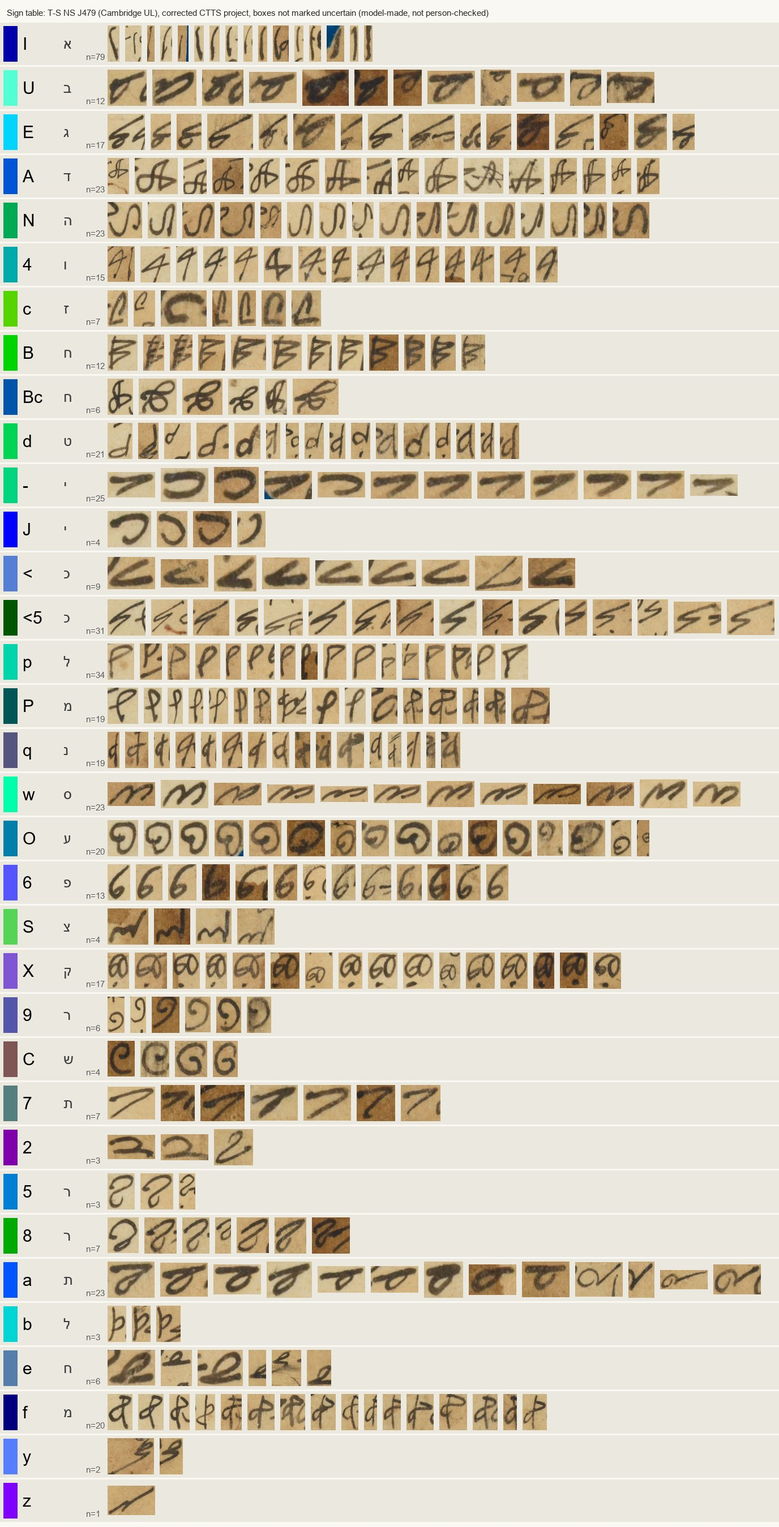
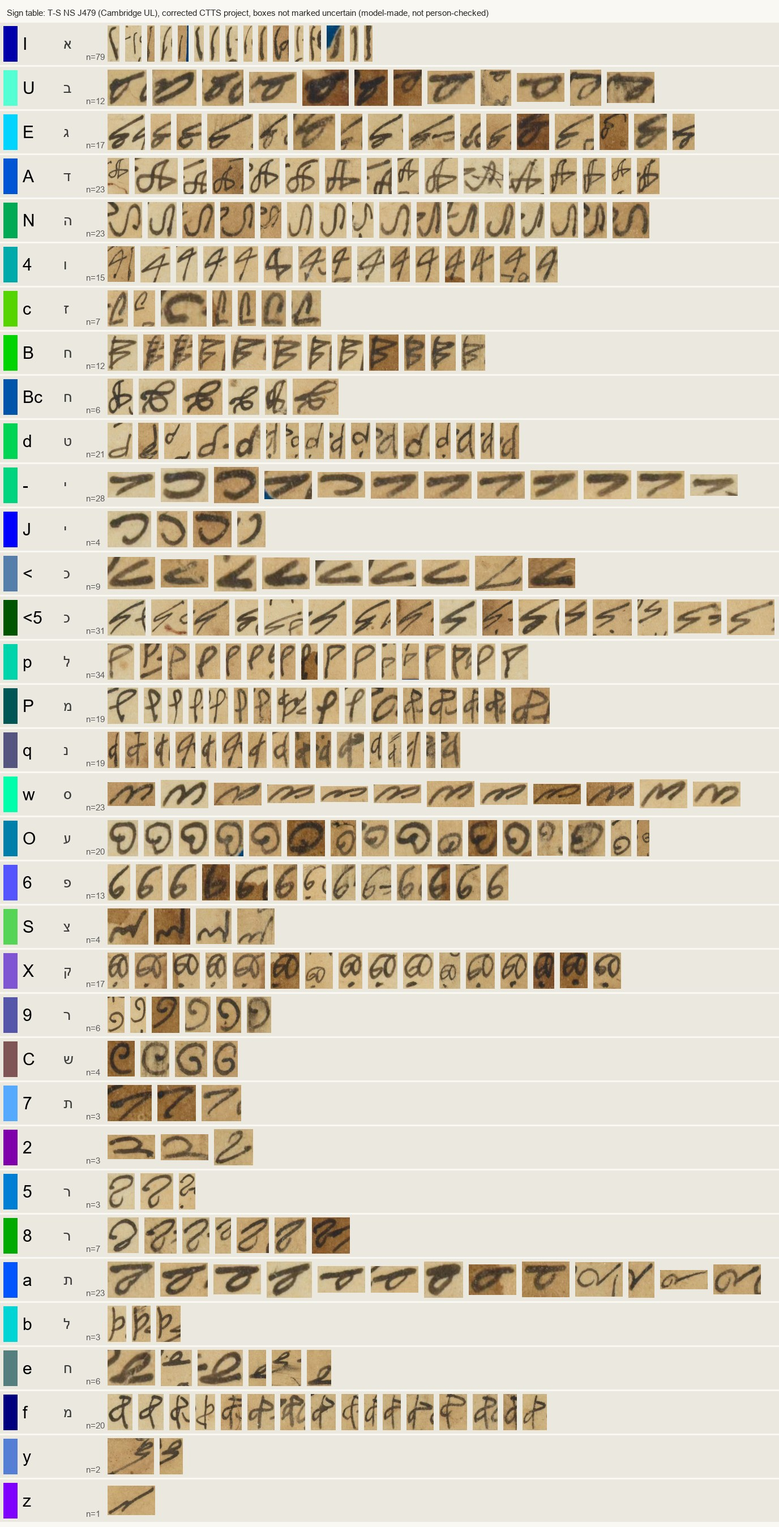
Site: J479 sign table, per-side fix of the 7 / dash shapes after a label test on known rows
A test of nine rows with an established reading (blind first pass 0.52, first correction 0.86, rounds 6-7 0.82) showed
round 6's size rule had made three yods of the Burda lines 7. The long > stroke is the yod on side 2; on side 1 it is
both the bet (S1L02, S1L04) and the yod of the margin signatures, so the side-1 7 boxes stay uncertain. Three yods back
to the dash, one resh loop to 8, two side-1 7s uncertain: agreement 0.841. Project 699 boxes in 82 types (180
uncertain); table 517 boxes in 34 rows. Decoding the open rows from the corrected labels gave no new word.

diff --git a/docs/tsnsj479.html b/docs/tsnsj479.html
@@ -88,8 +88,8 @@
 <p>As photographed, the lines run left to right; the page is upside down in the photographs, and turned round they read right to left in the ordinary way (Elbaum's copy shows them so). The alphabet rows, read in Hebrew order, give the value of every sign. Sign frequencies agree: the commonest are the signs for א, י, ל and מ, as in Judaeo-Arabic, and the commonest short words come out as פי ("in"), יא ("O") and מן ("from").</p>
 <p>The scribe was not fully consistent. Across his alphabets one sign serves for ת, ש and ב, another for ת and צ, and צ has five forms; ר is written three ways in the alphabets and a fourth in the text. In the text of side 1 the 7-shaped sign stands for ב. A dot under ט marks ض or ظ, under ד marks ذ, and under כ marks خ: the Arabic sounds the Hebrew alphabet lacks. Two rows of side 1 were written with the page turned: S1L03, a fragment of the alphabet from ב to ל, and the text line S1L07. Three items at the top of side 2 are upside down as well.</p>
 
-<figure data-credit="Cambridge University Library, T-S NS J479, both sides, via Cambridge Digital Library IIIF; table drawn here in the style of the CTTS symbol-type view"><img src="tsnsj479_ctts_key.jpg" width="1376" height="2698" decoding="async" loading="lazy" alt="Sign table: one coloured row per sign type with the Hebrew letter it carries and cut-outs of that sign from the page, from I (alef) to the variants"><figcaption>The sign table: each type with signs cut from the page, from the corrected CTTS project (518 of its 699 boxes; the 179 marked uncertain are left out). B and the angle each appear in two shapes (round and pointy B; a plain angle and a 5-shape), and the dash ranges from a small flat dash with a short hook to a rounded hook (the long <i>&gt;</i>-shaped strokes are the 7, the 22nd sign). Made by models. A person went over the table twice on 21 November 2026: 24 rows were confirmed (I, U, E, A, 4, c, B, Bc, d, <, p, q, 6, S, X, 9, C, 7, 5, b, e, f, y, z), 46 cut-outs were circled as wrong and have been taken out, and h, m, n and o were questioned and left out; the dash, <5, w and 2 are not yet confirmed. <span class="credit">Image: Cambridge University Library, T-S NS J479, both sides, via Cambridge Digital Library IIIF; table drawn here in the style of the CTTS symbol-type view.</span></figcaption></figure>
-<p>The boxes were written out as a CTTS project (CrypTool Transcriber and Solver): a blind first pass by two models, compared with the transcription, then every disagreement and missing sign decided on enlarged crops, a second round after a line-by-line review of the table, and a third on the owner's reading of it (step 16 of the notes). The project files are corrected but have not been opened in CTTS, and only part of the table has been checked by a person, so it is not yet a gold standard.</p>
+<figure data-credit="Cambridge University Library, T-S NS J479, both sides, via Cambridge Digital Library IIIF; table drawn here in the style of the CTTS symbol-type view"><img src="tsnsj479_ctts_key.jpg" width="1376" height="2698" decoding="async" loading="lazy" alt="Sign table: one coloured row per sign type with the Hebrew letter it carries and cut-outs of that sign from the page, from I (alef) to the variants"><figcaption>The sign table: each type with signs cut from the page, from the corrected CTTS project (517 of its 699 boxes; the 180 marked uncertain are left out). B and the angle each appear in two shapes (round and pointy B; a plain angle and a 5-shape), and the dash ranges from a small flat dash with a short hook to a rounded hook (the long <i>&gt;</i>-shaped stroke is the yod on side 2 and the scribe's bet on side 1, so it is shared between the dash and the 7 rows). Made by models and reviewed by a person (Daniel Bourdeau, 21 November 2026): he went over the table twice, ticked 24 rows, circled 46 cut-outs as wrong (taken out), had h, m, n and o left out and the P, 7, dash and a rows corrected, and states that he reviewed the key as a human. <span class="credit">Image: Cambridge University Library, T-S NS J479, both sides, via Cambridge Digital Library IIIF; table drawn here in the style of the CTTS symbol-type view.</span></figcaption></figure>
+<p>The boxes were written out as a CTTS project (CrypTool Transcriber and Solver): a blind first pass by two models, compared with the transcription, then every disagreement and missing sign decided on enlarged crops, a second round after a line-by-line review of the table, and a third on the owner's reading of it (step 16 of the notes). The project files are corrected but have not been opened in CTTS; the person's review covers the printed table, not the box geometry.</p>
 
 <h2 id="burda"><span class="num">03</span> The Burda verses</h2>
 <figure class="creveal" data-src="reveal/tsnsj479.json"></figure>
@@ -694,13 +694,13 @@ except רחמה, S2L13, S2U01, a few single words, and the words lost in holes.<
 <p class="muted">Transcriptions, readings, the key, the dating notes and the scripts are in <a href="https://github.com/dbourdeau/cyphersolver/tree/main/targets/tsnsj479">targets/tsnsj479</a>.</p>
 <!-- cite:start -->
 <details class="cite" id="cite"><summary>Cite this page</summary>
-<p class="citetext">Daniel Bourdeau, “Isḥāq the Jew’s cipher sheet, Cairo Geniza (T-S NS J479)”, Cyphersolver, posted 20 November 2026, updated 21 November 2026, repository commit b17d67da9a, https://cyphersolver.com/tsnsj479.html.</p>
-<p class="citebtns"><button type="button" data-copy="Daniel Bourdeau, “Isḥāq the Jew’s cipher sheet, Cairo Geniza (T-S NS J479)”, Cyphersolver, posted 20 November 2026, updated 21 November 2026, repository commit b17d67da9a, https://cyphersolver.com/tsnsj479.html.">Copy citation</button><button type="button" data-copy="@misc{cyphersolver-tsnsj479,
+<p class="citetext">Daniel Bourdeau, “Isḥāq the Jew’s cipher sheet, Cairo Geniza (T-S NS J479)”, Cyphersolver, posted 20 November 2026, updated 21 November 2026, repository commit 55a1201826, https://cyphersolver.com/tsnsj479.html.</p>
+<p class="citebtns"><button type="button" data-copy="Daniel Bourdeau, “Isḥāq the Jew’s cipher sheet, Cairo Geniza (T-S NS J479)”, Cyphersolver, posted 20 November 2026, updated 21 November 2026, repository commit 55a1201826, https://cyphersolver.com/tsnsj479.html.">Copy citation</button><button type="button" data-copy="@misc{cyphersolver-tsnsj479,
   author = {Daniel Bourdeau},
   title = {Isḥāq the Jew’s cipher sheet, Cairo Geniza (T-S NS J479)},
   year = {2026},
   howpublished = {Cyphersolver},
-  note = {posted 20 November 2026, updated 21 November 2026, repository commit b17d67da9a},
+  note = {posted 20 November 2026, updated 21 November 2026, repository commit 55a1201826},
   url = {https://cyphersolver.com/tsnsj479.html}
 }">Copy BibTeX</button></p>
 </details>

diff --git a/targets/tsnsj479/test_labels_known.py b/targets/tsnsj479/test_labels_known.py
@@ -1,0 +1,38 @@
+"""How well do the CTTS label versions decode rows whose reading is established? For each version of the labels
+(corrected, corrected2 ... corrected6) decode known rows left to right and compare the letters with the established
+reading (reading_final.md), by difflib ratio over the letter strings (spaces and marks ignored)."""
+import json, re, difflib, sys
+from pathlib import Path
+sys.stdout.reconfigure(encoding='utf-8')
+P = Path(r'C:\Users\dbour\cypher\research\ctts\projects\tsnsj479')
+H = dict(zip('I U E A N 4 c B d - < p P q w O 6 S X 9 C 7'.split(), 'abgdhwzcvyklmnsefxqrjt'))
+H.update({'Bc': 'c', 'J': 'y', '<5': 'k', 'f': 'm', 'a': 't', 's': 'r', '8': 'r', '5': 'r', 'e': 'c', 'b': 'l', 't': 'n', 'n': 'h'})
+HL = dict(zip('אבגדהוזחטיכלמנסעפצקרשתן', 'abgdhwzcvyklmnsefxqrjtn'))
+# established readings (Hebrew letters as on the page; dots/marks/? stripped), keyed by band
+KNOWN = {'S2L09': 'מן תדכר גיראן ידי סלמי', 'S2L07': 'מגזת דמען גרי מן מקלתן', 'S2L06': 'אם הבת אלריח מן טלקא כאטמה',
+         'S2L05': 'ואומט אלברק פי אלטלמא מן אטם', 'S1L01': 'חמאמתי כל הדה כדב', 'S1L11': 'אנא אלפקיר אסחאק אליהודי',
+         'S1L04': 'למ גואה זבי ויבכ גוה כסהא', 'S1L02': 'אל קער בתאע רחמה יבכ גואה', 'S2L15': 'כסבתאן כסתבאן'}
+def exp(s): return ''.join(HL.get(c, '') for c in s)
+def dec(boxes, labels, band, side):
+    img = band + '.png'; out = ''
+    for b in sorted(boxes[img], key=lambda b: b['x']):
+        lab = labels[img][str(b['n'])].lstrip('?').rstrip('.')
+        if lab.startswith(('_', '#')): continue
+        out += ('b' if side == 1 else 't') if lab == '7' else H.get(lab, '*')
+    return out
+print('version  ' + ' '.join(f'{b:6s}' for b in KNOWN) + '  mean')
+for v in ['', '5', '6', '7', '8']:
+    try:
+        bx = json.load(open(P / f'boxes_corrected{v}.json', encoding='utf-8')); lb = json.load(open(P / f'labels_corrected{v}.json', encoding='utf-8'))
+    except FileNotFoundError: continue
+    r = []
+    for band, e in KNOWN.items():
+        r.append(difflib.SequenceMatcher(None, dec(bx, lb, band, int(band[1])), exp(e), autojunk=False).ratio())
+    print(f"{('corr' + v):8s} " + ' '.join(f'{x:6.2f}' for x in r) + f'  {sum(r)/len(r):.3f}')
+# first pass labels (blind) for comparison
+fl = {}
+for f in ('labels_s1.json', 'labels_s2.json'): fl.update(json.load(open(P / f, encoding='utf-8'))['labels'])
+bx0 = json.load(open(P / 'boxes.json', encoding='utf-8')); r = []
+for band, e in KNOWN.items():
+    r.append(difflib.SequenceMatcher(None, dec(bx0, fl, band, int(band[1])), exp(e), autojunk=False).ratio())
+print(f"{'blind':8s} " + ' '.join(f'{x:6.2f}' for x in r) + f'  {sum(r)/len(r):.3f}')

diff --git a/targets/tsnsj479/decode_ctts.py b/targets/tsnsj479/decode_ctts.py
@@ -1,0 +1,35 @@
+"""Decode rows of the T-S NS J479 CTTS project (labels_corrected6) into Hebrew letters and test each word against a lexicon of
+Arabic in Hebrew letters (Arabic papyri + Qur'an, corpus/ja_translit.txt). Box order is reading order (bands are cut so the
+scribe's direction runs left to right). Words are split at gaps >= GAP px between boxes. A 7 is bet on side 1 and tav on side 2.
+Usage: decode_ctts.py [band ...]   (default: the open rows)"""
+import json, re, sys, itertools
+from pathlib import Path
+sys.stdout.reconfigure(encoding='utf-8')
+GAP = 38
+P = Path(r'C:\Users\dbour\cypher\research\ctts\projects\tsnsj479')
+boxes = json.load(open(P / 'boxes_corrected7.json', encoding='utf-8')); labels = json.load(open(P / 'labels_corrected7.json', encoding='utf-8'))
+H = dict(zip('I U E A N 4 c B d - < p P q w O 6 S X 9 C 7'.split(), 'abgdhwzcvyklmnsefxqrjt'))   # Latin code of alef..tav
+H.update({'Bc': 'c', 'J': 'y', '<5': 'k', 'f': 'm', 'a': 't', 's': 'r', '8': 'r', '5': 'r', 'e': 'c', 'b': 'l', 't': 'n', 'n': 'h'})
+HEB = dict(zip('abgdhwzcvyklmnsefxqrjt', 'אבגדהוזחטיכלמנסעפצקרשת'))
+LEX = set()
+for w in open(r'C:\Users\dbour\cypher\targets\tsnsj479\corpus\ja_translit.txt', encoding='utf-8').read().split(): LEX.add(w)
+def code(lab, side):
+    unc = lab.startswith('?'); l = lab.lstrip('?').rstrip('.')
+    if l == '7': return ('b' if side == 1 else 't'), unc
+    return H.get(l, '*'), unc
+def decode(band):
+    img = band + '.png'; side = int(band[1]); bx = sorted(boxes[img], key=lambda b: b['x']); words = [[]]; prev = None
+    for b in bx:
+        lab = labels[img][str(b['n'])]
+        if lab.startswith('_') or lab.startswith('#'): continue
+        if prev is not None and b['x'] - prev > GAP: words.append([])
+        c, u = code(lab, side); words[-1].append((c, u, lab)); prev = b['x'] + b['w']
+    return [w for w in words if w]
+rows = sys.argv[1:] or ['S1L05', 'S1L06', 'S1L07', 'S1L08', 'S1L13', 'S2L10', 'S2L13', 'S2L17', 'S2U01']
+for band in rows:
+    out = []
+    for w in decode(band):
+        lat = ''.join(c for c, u, l in w); heb = ''.join(('?' if u else '') + HEB.get(c, '*') for c, u, l in w)
+        sub = [lat[i:j] for i in range(len(lat)) for j in range(i + 3, len(lat) + 1) if lat[i:j] in LEX]
+        out.append(f"{heb}{' =' + lat if lat in LEX else (' ~' + max(sub, key=len) if sub else '')}")
+    print(band, ' | '.join(out))

diff --git a/research/ctts/apply_perside_j479.py b/research/ctts/apply_perside_j479.py
@@ -1,0 +1,30 @@
+"""Per-side sort of the 7 / dash shapes (21 Nov 2026), on top of round 7. The long `>`-shaped stroke is the yod (`-`) on side 2
+(the Burda words גיראן, ידי, גרי, פי, checked against the verified reading) and the scribe's bet on side 1 (S1L02 יבכ,
+S1L04 ויבכ); on side 1 it is also the yod in the margin signatures, so the side-1 text 7s stay uncertain. Changes:
+ (a) S2L09 x=1008, 1205 and S2L07 x=980 (yods the size rule had made `7`) go back to `-`;
+ (b) S2L05's `?7` loop (the resh of אלברק) becomes `?8`;
+ (c) the side-1 text 7 boxes not yet marked uncertain (S1L08, S1L13) become uncertain.
+Reads boxes/labels_corrected7.json, writes ...8, corrections8.tsv and the CTTS files."""
+import json, subprocess, sys
+from pathlib import Path
+P = Path(__file__).parent / 'projects' / 'tsnsj479'
+B = json.load(open(P / 'boxes_corrected7.json', encoding='utf-8')); L = json.load(open(P / 'labels_corrected7.json', encoding='utf-8'))
+REVERT = {('S2L09.png', 1008), ('S2L09.png', 1205), ('S2L07.png', 980)}
+log = []
+for img, bx in B.items():
+    for b in bx:
+        lab = L[img][str(b['n'])]; new = lab; base = lab.lstrip('?').rstrip('.')
+        if (img, b['x']) in REVERT and base == '7':
+            new = '-'
+        elif img == 'S2L05.png' and base == '7':
+            new = '?8'
+        elif img.startswith('S1L') and base == '7' and not lab.startswith('?') and img not in ('S1L14.png', 'S1L09.png', 'S1L15.png', 'S1L16.png', 'S1L03.png'):
+            new = '?7'
+        if new != lab:
+            L[img][str(b['n'])] = new; log.append((f"{img[:-4]}_{b['n']}", lab + ' -> ' + new))
+json.dump(B, open(P / 'boxes_corrected8.json', 'w', encoding='utf-8'), indent=1)
+json.dump(L, open(P / 'labels_corrected8.json', 'w', encoding='utf-8'), indent=1, ensure_ascii=False)
+with open(P / 'corrections8.tsv', 'w', encoding='utf-8') as fh:
+    fh.write('id\twhat\n'); [fh.write(f'{a}\t{b}\n') for a, b in log]
+print(len(log), 'changes:', log)
+subprocess.run([sys.executable, str(Path(__file__).parent / 'to_ctts.py'), str(P), str(P / 'labels_corrected8.json'), '--boxes', 'boxes_corrected8.json'], check=True)

diff --git a/research/ctts/README.md b/research/ctts/README.md
@@ -51,4 +51,4 @@ F11 or Tab: symbol-type views (F12 grid). F1/F2: next/previous image. F9: line a
 | `bordeaux1653` | Bordeaux to Brienne, 30 May 1653, BL Add MS 4200 f. 88 (DECODE R8390), page 1 | 5 bands, 238 candidate boxes, Fable 5.2 first pass (222 signs, 94 types; 13 split, 40 part, 16 junk, 8 missed). Corrected and saved in CTTS on 20 Nov 2026 (14:21–15:04): all splits and parts fixed, junk removed, the 8 missed signs added (15, 28¨, u, 54', 64', 56', ll, plus 39' split out of "ll39"), 99' moved out of 99¨. Then compared with the target's image-checked transcription (`targets/bordeaux/ct2.txt`, page 1 = 223 tokens; 213 agreed) and each difference re-checked on the enlarged band image. Fixed in CTTS at 15:10–15:23: `q o` → `90` (the round sign has the form of the digit 0 in 20¨, not the tailed letter o), `6` → `6¨` and `5` → `5¨` (a dot is visible above each), `33`+`2` → `332` and `44` → `344` (three-digit codes; the 3 of 344 is under a stain), `?φ` merged back into `φ`, and a box `?52'` added for the stained sign at the start of band 3 (on the page only a prime tick and a stroke show; 52' is the reading of the duplicate copy, R8393). **Now 224 signs, 83 types; 219 of 223 tokens agree with `ct2`.** Left as is, where the image supports CTTS: `96‾` (ct2 `96=`; a single bar), `63` (ct2 `63'`; no prime, the stroke is the δ's curl), `3` + `96‾` (ct2 `396‾`; the bar covers only 96; open). Time: about 5 min in the browser review app (`review_server.py`, `review_log.jsonl`), 43 min in CTTS, 13 min for the validation fixes. Claude Opus 5.5 made the CTTS corrections and readings by driving the GUI while the user watched. **Human check, 20 Nov 2026: a person went over the final CTTS sign table and found it correct except `?52'` (the sign under the stain, head of band 3), which stays unconfirmed.** Re-checked at 16:15 on enlarged, overlay-free crops and in CTTS, nothing changed: `25'` (band 4; the prime sits before the ll, and 25' = "pa" gives "separes"), `d` (band 5; the mark is the d's own flourish, and d = "u" gives "aussi"), and the lone `4` (band 4: a plain 4 whose crossbar stops at the stem, unlike `4-`; the decoded text wants the s-sign there, so the clerk probably meant `4-`, a decipherment point for the target's open [4]). Primes are assigned to the sign before them (written top right). Backups: `backups/before_ctts_correction_1420/`, `backups/after_ctts_correction_1504/`, `backups/after_validation_1523/`. |
 | `marburg1635` | German cipher report to Hesse-Kassel, HStAM 4 d Nr. 1218 no. 49 (DECODE R4500), cipher lines 1-14; single-digit substitution with letter-like signs and marks; transcription and key both rebuilt here from the ciphertext (`targets/marburg1635/`) | Interlinear gloss over lines 1-4 defeats both line finders, so `segment_lines.py` (line centres given by hand, one straightened band per line): 14 bands, 633 candidate boxes. Blind Fable 5.2 first pass from bands, overlays and a notation sheet only (571 signs in boxes, 15 missed, 40 split, 41 part, 51 clear, 14 junk). Its own flags applied mechanically (`apply_flags.py`, then `to_ctts.py --boxes boxes_applied.json`: 640 boxes, 36 types). Claude Opus 5.5 read every line on enlarged overlay-free strips and 17 doubts on 3x crops (17:17-17:31), then corrected in CTTS by computer use while the user watched (17:32-17:49; ~30 type moves in the F12 grid view, 3 renames, 7 deletions, 1 merge, 2 boxes redrawn). **582 signs in 32 types (plus `_clear` for gloss strokes).** First pass vs final: 17.7% raw, 5.7% with its notes applied. Final vs the target's `cipher_tokens.txt` (compared only afterwards): 3.0% (565/576; marks not counted), 17 differences, all checked on the image. The marks the old transcription dropped carry key values (9 with bow = b/w, 0 with dots/bow = z, triangle with bar = ll, double-crossed long s = ss); no base key value changed; lines 4-7 now build a clause, lines 1-3 still do not (`targets/marburg1635/texts/R4500_ctts_test.md`, report `marburg1635_ctts_report.pdf`). Box geometry: deletions and two redraws only, auto-split boxes left equal-width, so the boxes are not a geometry gold standard. Model-made: no person has checked the sign table yet. Backups: `backups/before_ctts_correction_1717/`, `after_ctts_correction_1745/`, `after_validation_1749/`. |
 | `it1583` | Two Sforza cipher slips of 4 May 1446, BnF italien 1583 f. 68 (DECODE R7898) and f. 70 (R7899 image P1); graphic-sign homophonic cipher whose key Lasry recovered from the ciphertext alone (`targets/it1583/`) | Binarized DECODE scans; lines ~37 px apart and touching, so `segment_dense.py` (2x upscale, line centres from the ink profile, touching strokes cut at the thinnest column): 7 bands, 1,129 candidate boxes. Blind Fable 5.2 first pass, one agent per letter, shown only bands, overlays and a shape notation (`NOTATION.md`): about 418 + 398 signs, 57 + 49 codes, 114 doubts, 193 part and 13 split boxes. Correction by Claude Opus 5.5, 20 Nov 2026 (about 17 min): part and clear runs merged, the two agents' codes for one shape unified, all 125 flagged signs checked on enlarged crops with no overlay (`decisions.tsv`), 74 box operations (`geomfix.log`). Computer use of the CTTS window came back denied, so at the user's choice the fixes were written to `positions/` and `colors.txt` and CTTS restored the project (834 boxes, 83 types). Then (5c, about 14 min) compared box by box with Lasry's CTTS project (fitted to the same images, scale 1.00, 2 px median offset) and fixed where image and decoded text side with him (`fix5c.log`): the dot groups `::` and `.:.` are cipher signs (z and a), 31 of them, dropped as separators because the notation sheet said so; b+cross = per; C with ÷ and 9 with barred m are compound signs; 18 single signs. **Final: 425 + 400 signs, 89 types.** Sign error rates vs final (f. 68 / f. 70): first pass raw 24.2% / 24.8%; with its own notes 12.7% / 9.2% (7.5% / 7.7% without the dot groups); CTTS pass before the comparison 10.8% / 6.8% (5.5% / 5.1%); final vs Lasry 1.9% / 5.2%; final vs the target's September draft (`f68_signs.txt`, `f70_signs.txt`) 14.1% / 14.6%, Lasry vs that draft 14.4% / 15.1%. **The key does not change**: of 27 boxes where the new class would give another letter, 21 go to Lasry by image and sense, 3 are naming only, 3 stay open. One reading gain: a caret-inserted o-sign on f. 68 line 10 that Lasry's project lacks ("octo o dece", eight or ten). Proposed for the open classes: #40 + (11) are one flourish. Corrections and readings are model-made; no person has checked the sign table yet. Scores: `score.py`, `scores.json`; report `it1583_ctts_report.pdf`. Backups: `backups/before_ctts_correction_1702/`, `before_ctts_gui_1709/`, `after_correction_1719/`, `after_5c_1729/`, `final_1732/`. |
-| `tsnsj479` | Cairo Geniza practice sheet, Cambridge T-S NS J479, invented sign alphabet for Judaeo-Arabic (`targets/tsnsj479/`) | 46 bands (one per cipher row; margin columns and upside-down lines turned upright), 682 candidate boxes from `segment_glyphs.py` (connected components, marks attached; `segment.py` merges whole words here). Blind first pass by two agents, aligned band by band with the target's transcription (`align_j479.py`): 336 of 637 boxes agreed, 91 disagreed, 162 boxes and 204 signs unmatched. Correction (`prep_review_j479.py` sheets, two reviewers on enlarged overlay-free crops with the transcription in view, `apply_decisions_j479.py`): 167 type changes, 81 deletions, 3 merges, 15 splits, 129 additions, 103 marked uncertain; **697 boxes, 84 types**; 585 of the transcription's 679 signs line up. Second round (21 Nov 2026, after a line-by-line review of the table; `prep_recheck_j479.py`, `apply_recheck_j479.py`): 282 boxes in the confused rows re-judged, 58 relabelled, 4 deleted, 17 split, 37 more uncertain; the cup U exists only on side 2 (side-1 tailed loops are `a`), `s` = `8` on side 2; **then 711 boxes, 86 types, 140 uncertain, 530 of 679 signs line up**. Third round (21 Nov 2026, on the owner's reading of the table): B, `-` and `<` each split into two shapes (`B`/`Bc`, `-`/`J`, `<`/`<5`) and every row from f down re-judged (168 boxes, 12 deleted): **then 699 boxes, 83 types, 127 uncertain; table 570 boxes in 38 rows**. Person's check of the printed table (21 Nov 2026, Daniel Bourdeau, without AI; `apply_user_marks_j479.py`): rows I, U, p, q, O, 6, S, X ticked, 33 cut-outs circled (now uncertain), five J boxes moved to `-`, h/m/n/o questioned (now uncertain), one o box made `d`: **then 699 boxes, 82 types, 169 uncertain; table 528 boxes in 34 rows**. Second pass of the check (same day, `apply_user_marks2_j479.py`): 24 rows ticked (I U E A 4 c B Bc d < p q 6 S X 9 C 7 5 b e f y z), 13 more cut-outs circled (now uncertain), `-`, `<5`, w and 2 not marked: **then 699 boxes, 82 types, 182 uncertain; table 515 boxes in 34 rows**. Round 6 (`apply_round6_j479.py`): the twelve circled P cut-outs are `f`; 7/dash/J sorted by the alphabet rows (long `>` strokes are `7`, the small dash with a hook is `-`, round J hooks mostly `-`): **now 699 boxes, 82 types, 179 uncertain; table 518 boxes in 34 rows** (round 7, `apply_round7_j479.py`: the last three `a` cut-outs fixed). Computer use of CTTS was not available, so the corrections were written to `positions/` and `colors.txt` (as in it1583); **not opened in CTTS; only the rows ticked above are person-checked (24 rows after the second pass)**. `key_table_j479.py --corrected` draws the page's table (518 certain boxes). 20 Nov 2026, Claude Sonnet 5.5. |
+| `tsnsj479` | Cairo Geniza practice sheet, Cambridge T-S NS J479, invented sign alphabet for Judaeo-Arabic (`targets/tsnsj479/`) | 46 bands (one per cipher row; margin columns and upside-down lines turned upright), 682 candidate boxes from `segment_glyphs.py` (connected components, marks attached; `segment.py` merges whole words here). Blind first pass by two agents, aligned band by band with the target's transcription (`align_j479.py`): 336 of 637 boxes agreed, 91 disagreed, 162 boxes and 204 signs unmatched. Correction (`prep_review_j479.py` sheets, two reviewers on enlarged overlay-free crops with the transcription in view, `apply_decisions_j479.py`): 167 type changes, 81 deletions, 3 merges, 15 splits, 129 additions, 103 marked uncertain; **697 boxes, 84 types**; 585 of the transcription's 679 signs line up. Second round (21 Nov 2026, after a line-by-line review of the table; `prep_recheck_j479.py`, `apply_recheck_j479.py`): 282 boxes in the confused rows re-judged, 58 relabelled, 4 deleted, 17 split, 37 more uncertain; the cup U exists only on side 2 (side-1 tailed loops are `a`), `s` = `8` on side 2; **then 711 boxes, 86 types, 140 uncertain, 530 of 679 signs line up**. Third round (21 Nov 2026, on the owner's reading of the table): B, `-` and `<` each split into two shapes (`B`/`Bc`, `-`/`J`, `<`/`<5`) and every row from f down re-judged (168 boxes, 12 deleted): **then 699 boxes, 83 types, 127 uncertain; table 570 boxes in 38 rows**. Person's check of the printed table (21 Nov 2026, Daniel Bourdeau, without AI; `apply_user_marks_j479.py`): rows I, U, p, q, O, 6, S, X ticked, 33 cut-outs circled (now uncertain), five J boxes moved to `-`, h/m/n/o questioned (now uncertain), one o box made `d`: **then 699 boxes, 82 types, 169 uncertain; table 528 boxes in 34 rows**. Second pass of the check (same day, `apply_user_marks2_j479.py`): 24 rows ticked (I U E A 4 c B Bc d < p q 6 S X 9 C 7 5 b e f y z), 13 more cut-outs circled (now uncertain), `-`, `<5`, w and 2 not marked: **then 699 boxes, 82 types, 182 uncertain; table 515 boxes in 34 rows**. Round 6 (`apply_round6_j479.py`): the twelve circled P cut-outs are `f`; 7/dash/J sorted by the alphabet rows (long `>` strokes are `7`, the small dash with a hook is `-`, round J hooks mostly `-`): **then 699 boxes, 82 types, 179 uncertain; table 518 boxes in 34 rows** (round 7, `apply_round7_j479.py`: the last three `a` cut-outs fixed). Label test on nine rows with an established reading (`test_labels_known.py`): blind 0.52, first correction 0.86, round 6-7 0.82; round 6 had made three Burda yods `7`. Per-side fix (`apply_perside_j479.py`): three yods back to `-`, one resh loop `8`, two side-1 7s uncertain, agreement 0.841: **now 699 boxes, 82 types, 180 uncertain; table 517 boxes in 34 rows**. Decoding the open rows from the corrected labels (`decode_ctts.py`) gave no new word. Computer use of CTTS was not available, so the corrections were written to `positions/` and `colors.txt` (as in it1583); **not opened in CTTS; the printed table is reviewed by a person (Daniel Bourdeau, 21 Nov 2026), the box geometry is not**. `key_table_j479.py --corrected` draws the page's table (517 certain boxes). 20 Nov 2026, Claude Sonnet 5.5. |

diff --git a/targets/tsnsj479/NOTES.md b/targets/tsnsj479/NOTES.md
@@ -194,6 +194,23 @@ paper folio, both sides covered with jottings in many directions. Lead from the 
     these two positions. Not opened in CTTS; the rows `-`, `<5`, w and 2, and the new `7` and `f` contents, are not yet
     confirmed by the person.
 
+    **Per-side sort of the 7 / dash shapes (21 Nov 2026, a fork of the session, on the owner's "yes apply it").** The label test
+    (`test_labels_known.py`: nine rows with an established reading decoded from each label version, difflib letter ratio:
+    blind first pass 0.52, first correction 0.86, round 5 0.84, round 6-7 0.82) showed round 6's size rule had moved three
+    yods of the Burda lines (S2L09 twice, S2L07 once) from `-` to `7`. The long `>`-shaped stroke is the yod on side 2 (גיראן,
+    ידי, גרי, פי), while on side 1 it is the scribe's bet in S1L02 יבכ and S1L04 ויבכ but also the yod in the margin
+    signatures, so the side-1 rule is not settled. Applied (`apply_perside_j479.py`, `corrections8.tsv`): the three yods back
+    to `-`; the resh loop of אלברק (S2L05_10) `?7` to `?8`; the two side-1 text 7 boxes not yet marked (S1L08_5, S1L13_6)
+    marked uncertain. Agreement with the established readings 0.841. **Now 699 boxes in 82 types, 180 uncertain, 517 certain
+    boxes in 34 table rows** (`-` 28, `J` 4, `7` 3, `f` 20, `8` 7). Decoding the open rows (S1L05-08, S1L13, S2L10, S2L13,
+    S2L17, S2U01) from these labels (`decode_ctts.py`) gave **no new word**: the correction work has not improved the reading.
+
+    **Person's review of the key, stated (21 Nov 2026, Daniel Bourdeau).** After the rounds above (24 rows ticked, 46
+    cut-outs circled and removed, the P-to-f, 7/dash and `a` points applied, and the final table sent to him), the owner
+    states that he reviewed the CTTS key as a human, so it counts as human-reviewed. What that covers: the printed table
+    of 518 certain boxes in 34 rows, by eye and without AI; it does not cover the 181 boxes marked uncertain, nor the
+    box geometry in the project files, which were not opened in CTTS.
+
 ## Result
 
 Key recovered from the ciphertext: the scribe's own alphabet rows (unlabelled, in Hebrew order) plus the frequent
